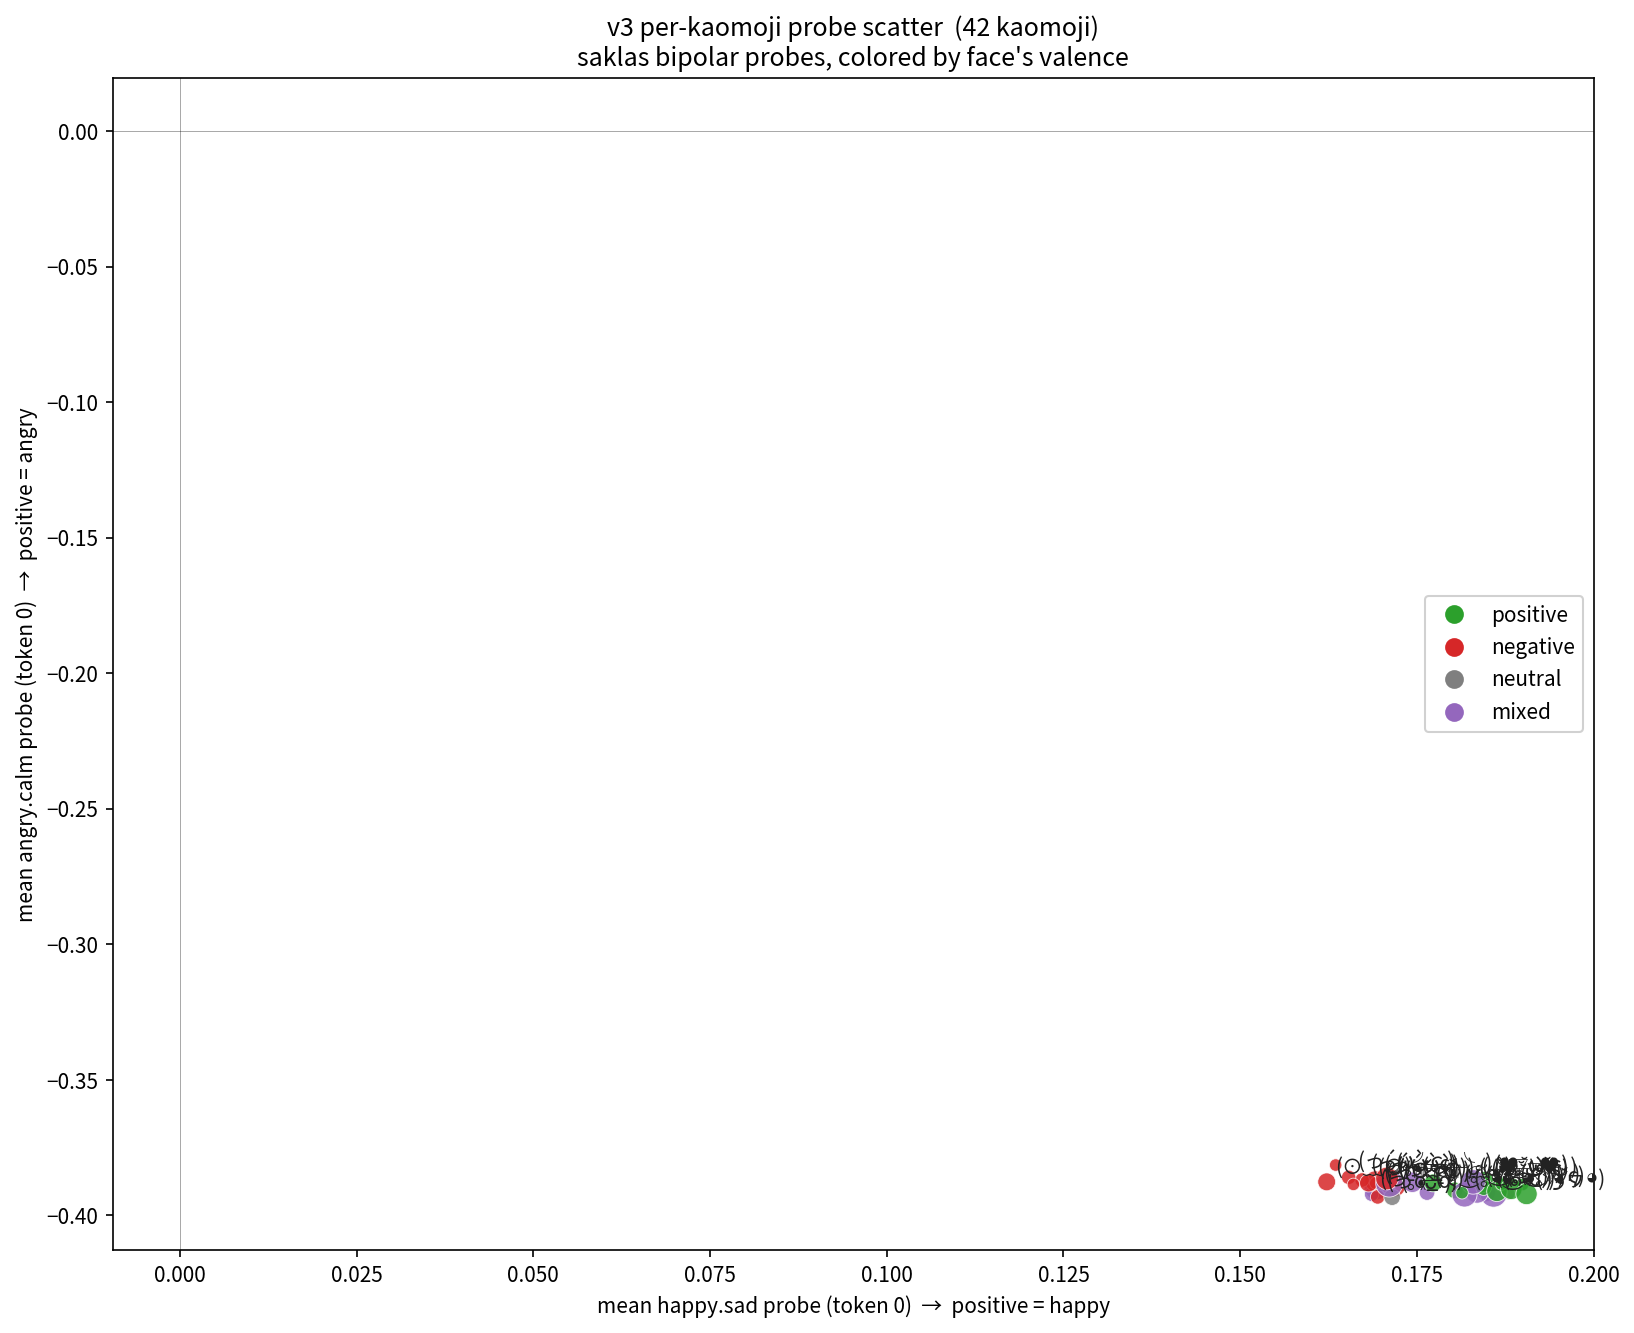
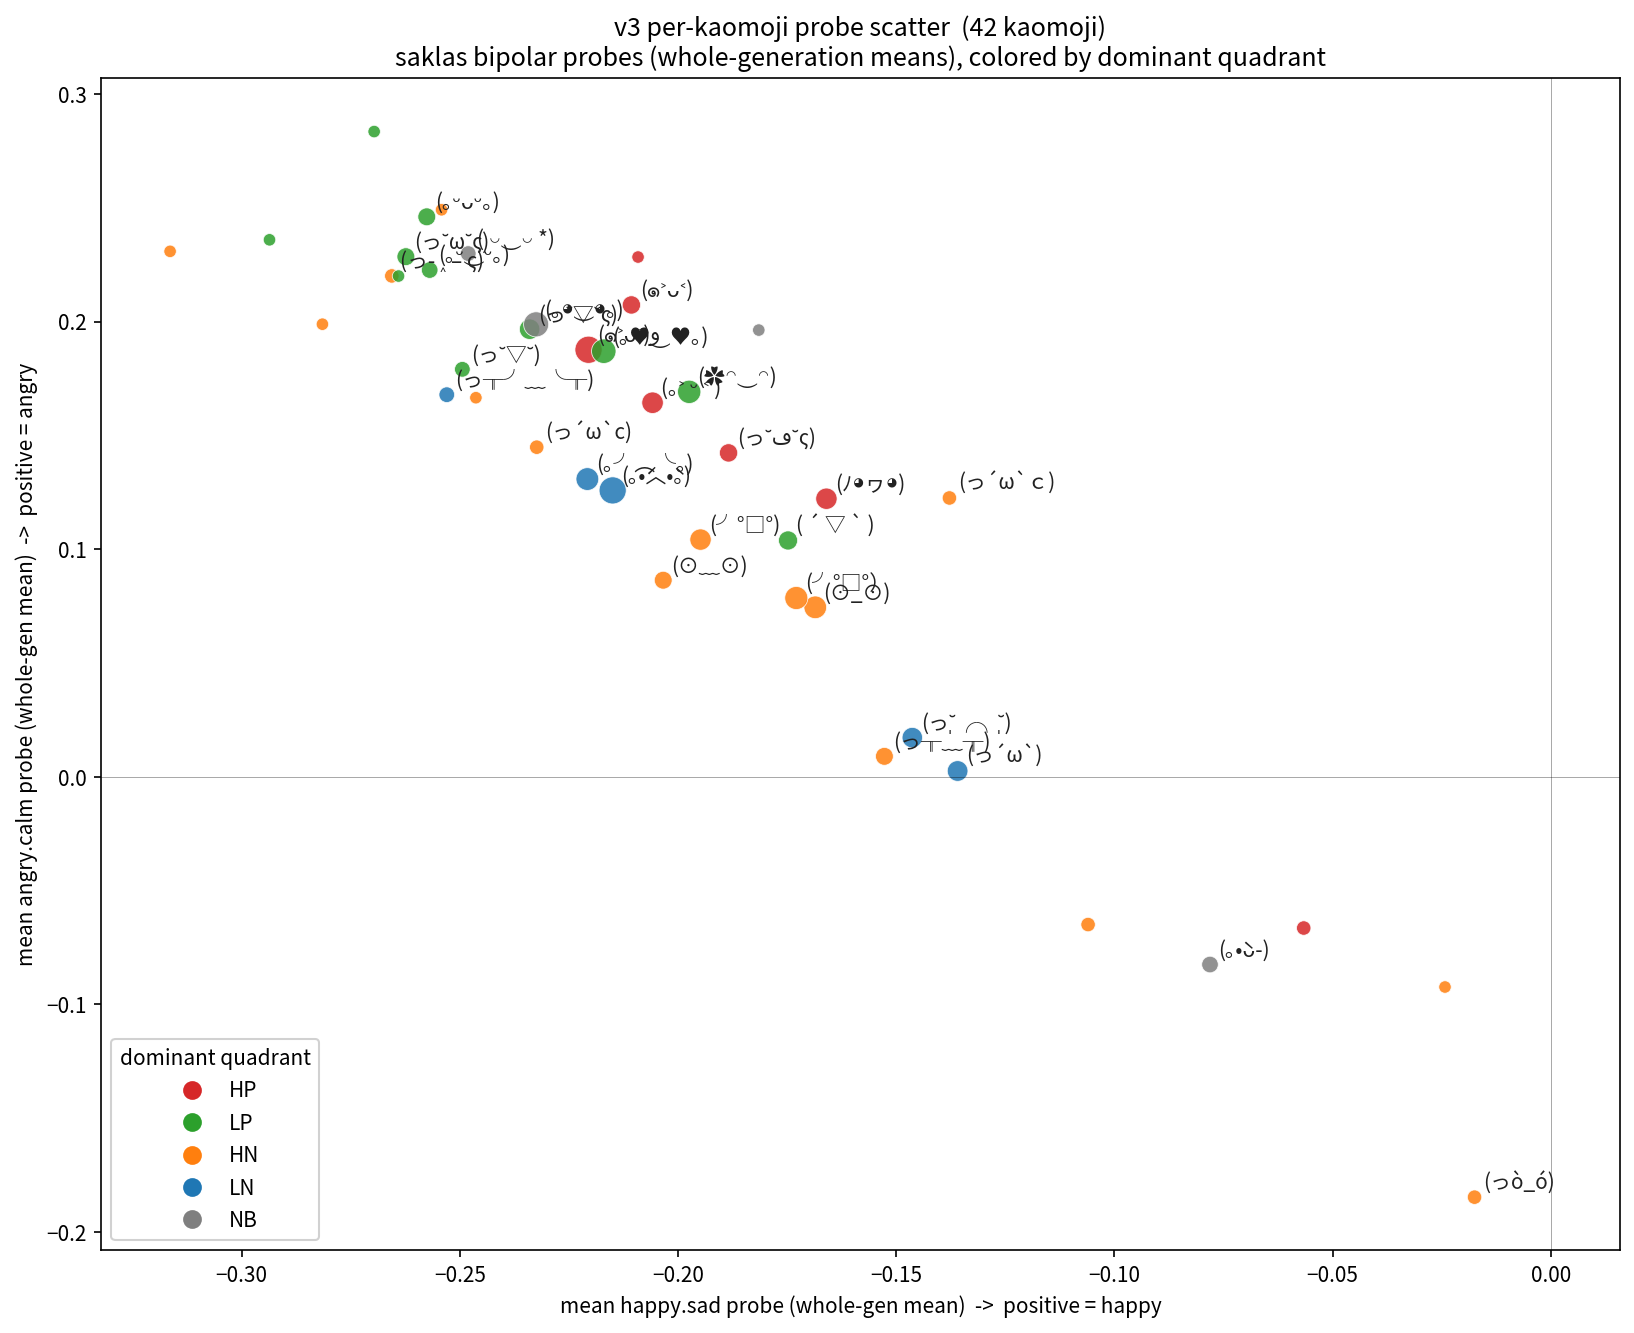
v3 script 17: switch to h_mean + probe_means + dominant-quadrant coloring; add cosine heatmap
- Features: h_mean (averaged-over-tokens) instead of h_last for PCA/heatmap;
  probe_means dict instead of probe_scores_t0 list for probe scatter
- Coloring: dominant quadrant per face (HP/LP/HN/LN/NB, tie-broken by
  QUADRANT_ORDER priority) replaces valence (positive/negative/neutral/mixed)
- New figure: fig_v3_face_cosine_heatmap.png -- centered pairwise cosine
  between per-face mean h_mean vectors, rows/cols sorted by dominant quadrant
  with boundary lines; within-quadrant mean=0.22 vs cross=−0.09 (delta=0.31)
- Delete fig_v3_face_pca_by_valence.png (replaced by fig_v3_face_pca_by_quadrant.png)

diff --git a/scripts/17_v3_face_scatters.py b/scripts/17_v3_face_scatters.py
@@ -1,21 +1,24 @@
-"""v3 face-level scatters (descriptive, post-run).
+"""v3 face-level scatters + cosine heatmap (descriptive, post-run).
 
-Two figures:
-  - figures/fig_v3_face_pca_by_valence.png:
-    Per-kaomoji mean hidden-state vector → PCA → 2D scatter
-    colored by the face's dominant prompt valence (positive
-    HP+LP / negative HN+LN / neutral NB / mixed across).
+Three figures, all on the v3 data only:
+  - figures/fig_v3_face_pca_by_quadrant.png:
+    Per-kaomoji mean h_mean (averaged-over-tokens hidden state) ->
+    PCA -> 2D scatter colored by the face's dominant emission
+    quadrant (HP / LP / HN / LN / NB).
   - figures/fig_v3_face_probe_scatter.png:
-    Per-kaomoji mean (happy.sad, angry.calm) probe-score scatter
-    using probe_scores_t0; same valence coloring.
-
-Operates on v3 data only (no v1/v2 baseline overlay). Both
-figures annotate the top-30 most-frequent kaomoji.
+    Per-kaomoji mean (happy.sad, angry.calm) using probe_means
+    (whole-generation aggregates), same dominant-quadrant coloring.
+  - figures/fig_v3_face_cosine_heatmap.png:
+    Pairwise cosine similarity between per-face mean h_mean
+    vectors, centered (grand mean subtracted), rows/cols sorted by
+    dominant quadrant with quadrant boundaries drawn.
 """
 
 from __future__ import annotations
 
+import json
 import sys
+from collections import Counter
 from pathlib import Path
 
 sys.path.insert(0, str(Path(__file__).resolve().parent.parent))
@@ -30,57 +33,52 @@ from llmoji.config import (
     EMOTIONAL_DATA_PATH,
     EMOTIONAL_EXPERIMENT,
     FIGURES_DIR,
-    PROBES,
 )
 from llmoji.emotional_analysis import _use_cjk_font, load_emotional_features
 
 
-VALENCE_BY_QUADRANT = {
-    "HP": "positive",
-    "LP": "positive",
-    "HN": "negative",
-    "LN": "negative",
-    "NB": "neutral",
-}
-
-VALENCE_COLORS = {
-    "positive": "#2ca02c",  # green
-    "negative": "#d62728",  # red
-    "neutral":  "#7f7f7f",  # gray
-    "mixed":    "#9467bd",  # purple
+QUADRANT_ORDER = ["HP", "LP", "HN", "LN", "NB"]
+QUADRANT_COLORS = {
+    "HP": "#d62728",  # red -- high-arousal positive
+    "LP": "#2ca02c",  # green -- low-arousal positive
+    "HN": "#ff7f0e",  # orange -- high-arousal negative
+    "LN": "#1f77b4",  # blue -- low-arousal negative
+    "NB": "#7f7f7f",  # gray -- neutral baseline
 }
 
 
-def _per_face_valence(df: pd.DataFrame) -> dict[str, str]:
-    """For each first_word, return its valence label across emissions."""
+def _per_face_dominant_quadrant(df: pd.DataFrame) -> dict[str, str]:
+    """For each first_word, return its dominant quadrant -- most
+    frequently emitted in. Ties broken by QUADRANT_ORDER position
+    (earlier wins)."""
     out: dict[str, str] = {}
     for fw, sub in df.groupby("first_word"):
-        valences = {VALENCE_BY_QUADRANT[q] for q in sub["quadrant"]
-                    if q in VALENCE_BY_QUADRANT}
-        if len(valences) == 1:
-            out[fw] = next(iter(valences))
-        else:
-            out[fw] = "mixed"
+        counts = Counter(sub["quadrant"].tolist())
+        # find max count
+        max_count = max(counts.values())
+        # break ties by quadrant order priority
+        candidates = [q for q in QUADRANT_ORDER if counts.get(q, 0) == max_count]
+        out[fw] = candidates[0] if candidates else "NB"
     return out
 
 
-def _add_valence_legend(ax) -> None:
+def _add_quadrant_legend(ax) -> None:
     handles = [
         plt.Line2D([0], [0], marker="o", linestyle="None", markersize=8,
-                   color=VALENCE_COLORS[v], label=v)
-        for v in ("positive", "negative", "neutral", "mixed")
+                   color=QUADRANT_COLORS[q], label=q)
+        for q in QUADRANT_ORDER
     ]
-    ax.legend(handles=handles, loc="best", framealpha=0.9)
+    ax.legend(handles=handles, loc="best", framealpha=0.9, title="dominant quadrant")
 
 
-def plot_face_pca_by_valence(
+def plot_face_pca_by_quadrant(
     df: pd.DataFrame,
     X: np.ndarray,
     out_path: Path,
     *,
     annotate_top: int = 30,
 ) -> dict:
-    """Per-face mean hidden state → PCA → scatter colored by valence."""
+    """Per-face mean h_mean -> PCA -> scatter colored by dominant quadrant."""
     df = df.reset_index(drop=True)
     rows = []
     means = []
@@ -94,8 +92,8 @@ def plot_face_pca_by_valence(
     pca = PCA(n_components=2)
     Y = pca.fit_transform(M)
 
-    valence = _per_face_valence(df)
-    colors = [VALENCE_COLORS[valence.get(fw, "mixed")] for fw in fdf["first_word"]]
+    quadrant = _per_face_dominant_quadrant(df)
+    colors = [QUADRANT_COLORS[quadrant.get(fw, "NB")] for fw in fdf["first_word"]]
     sizes = np.clip(15 + 30 * np.log1p(fdf["n"]), 15, 250)
 
     fig, ax = plt.subplots(figsize=(12, 9))
@@ -114,10 +112,10 @@ def plot_face_pca_by_valence(
     ax.set_xlabel(f"PC1 ({pca.explained_variance_ratio_[0]*100:.1f}%)")
     ax.set_ylabel(f"PC2 ({pca.explained_variance_ratio_[1]*100:.1f}%)")
     ax.set_title(
-        f"v3 per-kaomoji mean hidden-state PCA  ({len(fdf)} kaomoji)\n"
-        "colored by face's valence across emissions"
+        f"v3 per-kaomoji h_mean PCA  ({len(fdf)} kaomoji)\n"
+        "colored by dominant emission quadrant"
     )
-    _add_valence_legend(ax)
+    _add_quadrant_legend(ax)
     fig.tight_layout()
     fig.savefig(out_path, dpi=150, bbox_inches="tight")
     plt.close(fig)
@@ -133,23 +131,22 @@ def plot_face_probe_scatter(
     *,
     annotate_top: int = 30,
 ) -> dict:
-    """Per-face mean (happy.sad, angry.calm) probe scatter."""
-    happy_sad_idx = PROBES.index("happy.sad")
-    angry_calm_idx = PROBES.index("angry.calm")
-
+    """Per-face mean (happy.sad, angry.calm) using probe_means dict."""
     rows = []
     for fw, sub in df.groupby("first_word"):
-        t0 = np.asarray(sub["probe_scores_t0"].tolist(), dtype=float)
+        # probe_means is a dict per row
+        hs = np.array([r.get("happy.sad", float("nan")) for r in sub["probe_means"]])
+        ac = np.array([r.get("angry.calm", float("nan")) for r in sub["probe_means"]])
         rows.append({
             "first_word": fw,
             "n": len(sub),
-            "happy_sad": float(t0[:, happy_sad_idx].mean()),
-            "angry_calm": float(t0[:, angry_calm_idx].mean()),
+            "happy_sad": float(np.nanmean(hs)),
+            "angry_calm": float(np.nanmean(ac)),
         })
     fdf = pd.DataFrame(rows)
 
-    valence = _per_face_valence(df)
-    colors = [VALENCE_COLORS[valence.get(fw, "mixed")] for fw in fdf["first_word"]]
+    quadrant = _per_face_dominant_quadrant(df)
+    colors = [QUADRANT_COLORS[quadrant.get(fw, "NB")] for fw in fdf["first_word"]]
     sizes = np.clip(15 + 30 * np.log1p(fdf["n"]), 15, 250)
 
     fig, ax = plt.subplots(figsize=(11, 9))
@@ -170,18 +167,17 @@ def plot_face_probe_scatter(
             fontsize=10, color="#222",
         )
 
-    ax.set_xlabel("mean happy.sad probe (token 0)  →  positive = happy")
-    ax.set_ylabel("mean angry.calm probe (token 0)  →  positive = angry")
+    ax.set_xlabel("mean happy.sad probe (whole-gen mean)  ->  positive = happy")
+    ax.set_ylabel("mean angry.calm probe (whole-gen mean)  ->  positive = angry")
     ax.set_title(
         f"v3 per-kaomoji probe scatter  ({len(fdf)} kaomoji)\n"
-        "saklas bipolar probes, colored by face's valence"
+        "saklas bipolar probes (whole-generation means), colored by dominant quadrant"
     )
-    _add_valence_legend(ax)
+    _add_quadrant_legend(ax)
     fig.tight_layout()
     fig.savefig(out_path, dpi=150, bbox_inches="tight")
     plt.close(fig)
 
-    # also report Pearson correlation of the two probe means across faces
     from scipy.stats import pearsonr
     r, p = pearsonr(fdf["happy_sad"].to_numpy(), fdf["angry_calm"].to_numpy())
     return {
@@ -192,42 +188,120 @@ def plot_face_probe_scatter(
     }
 
 
+def plot_face_cosine_heatmap(
+    df: pd.DataFrame,
+    X: np.ndarray,
+    out_path: Path,
+) -> dict:
+    """Pairwise cosine similarity between per-face mean h_mean vectors,
+    grand-mean centered, rows/cols sorted by dominant quadrant."""
+    df = df.reset_index(drop=True)
+    rows = []
+    means = []
+    for fw, sub in df.groupby("first_word"):
+        idxs = sub.index.to_numpy()
+        rows.append({"first_word": fw, "n": len(sub)})
+        means.append(X[idxs].mean(axis=0))
+    fdf = pd.DataFrame(rows)
+    M = np.asarray(means)
+
+    # Sort by dominant quadrant (HP < LP < HN < LN < NB), then by emission count desc within quadrant
+    quadrant = _per_face_dominant_quadrant(df)
+    fdf["quadrant"] = [quadrant[fw] for fw in fdf["first_word"]]
+    fdf["q_order"] = fdf["quadrant"].map({q: i for i, q in enumerate(QUADRANT_ORDER)})
+    sort_idx = fdf.sort_values(["q_order", "n"], ascending=[True, False]).index.to_numpy()
+    M_sorted = M[sort_idx]
+    fdf_sorted = fdf.iloc[sort_idx].reset_index(drop=True)
+
+    # Center on grand mean (anti-baseline-collapse, see CLAUDE.md gotcha)
+    grand_mean = M_sorted.mean(axis=0, keepdims=True)
+    M_centered = M_sorted - grand_mean
+
+    # L2-normalize each row, then dot product = cosine
+    norms = np.linalg.norm(M_centered, axis=1, keepdims=True)
+    norms[norms == 0] = 1.0
+    M_n = M_centered / norms
+    C = M_n @ M_n.T  # (n_faces, n_faces) cosine matrix
+
+    # Compute quadrant boundaries
+    q_changes = []
+    for i in range(1, len(fdf_sorted)):
+        if fdf_sorted.iloc[i]["quadrant"] != fdf_sorted.iloc[i - 1]["quadrant"]:
+            q_changes.append(i)
+
+    fig, ax = plt.subplots(figsize=(13, 12))
+    vabs = float(max(abs(C.min()), abs(C.max())))
+    im = ax.imshow(C, cmap="RdBu_r", vmin=-vabs, vmax=vabs, aspect="auto")
+    ax.set_xticks(range(len(fdf_sorted)))
+    ax.set_yticks(range(len(fdf_sorted)))
+    ax.set_xticklabels(fdf_sorted["first_word"], rotation=90, fontsize=8)
+    ax.set_yticklabels(fdf_sorted["first_word"], fontsize=8)
+
+    # Tint y-axis labels by quadrant color so the structure is readable.
+    for tick, q in zip(ax.get_yticklabels(), fdf_sorted["quadrant"]):
+        tick.set_color(QUADRANT_COLORS[q])
+    for tick, q in zip(ax.get_xticklabels(), fdf_sorted["quadrant"]):
+        tick.set_color(QUADRANT_COLORS[q])
+
+    # Quadrant boundary lines
+    for i in q_changes:
+        ax.axhline(i - 0.5, color="black", linewidth=0.6, alpha=0.7)
+        ax.axvline(i - 0.5, color="black", linewidth=0.6, alpha=0.7)
+
+    fig.colorbar(im, ax=ax, shrink=0.7, label="centered cosine similarity")
+    ax.set_title(
+        f"v3 per-kaomoji h_mean cosine similarity  ({len(fdf_sorted)} kaomoji)\n"
+        "rows/cols sorted by dominant quadrant; grand-mean centered; "
+        "tick colors = quadrant"
+    )
+    fig.tight_layout()
+    fig.savefig(out_path, dpi=150, bbox_inches="tight")
+    plt.close(fig)
+    return {"n_faces": len(fdf_sorted)}
+
+
 def main() -> None:
     if not EMOTIONAL_DATA_PATH.exists():
         print(f"no data at {EMOTIONAL_DATA_PATH}")
         sys.exit(1)
     _use_cjk_font()
 
-    print("loading v3 hidden-state features (which=h_last)...")
+    print("loading v3 hidden-state features (which=h_mean)...")
     df, X = load_emotional_features(
         str(EMOTIONAL_DATA_PATH), DATA_DIR,
-        experiment=EMOTIONAL_EXPERIMENT, which="h_last",
+        experiment=EMOTIONAL_EXPERIMENT, which="h_mean",
     )
     df = df[df["first_word"].notna() & (df["first_word"] != "")].reset_index(drop=True)
-    print(f"  {len(df)} kaomoji-bearing rows; {df['first_word'].nunique()} unique faces; X {X.shape}")
+    print(f"  {len(df)} kaomoji-bearing rows; "
+          f"{df['first_word'].nunique()} unique faces; X {X.shape}")
 
-    # quadrant breakdown of unique faces
-    valence = _per_face_valence(df)
-    from collections import Counter
-    counts = Counter(valence.values())
-    print("  faces by valence:", dict(counts))
+    quadrant = _per_face_dominant_quadrant(df)
+    counts = Counter(quadrant.values())
+    print("  faces by dominant quadrant:",
+          {q: counts.get(q, 0) for q in QUADRANT_ORDER})
 
     FIGURES_DIR.mkdir(parents=True, exist_ok=True)
 
-    out1 = FIGURES_DIR / "fig_v3_face_pca_by_valence.png"
-    print(f"\nplotting per-face PCA...")
-    s1 = plot_face_pca_by_valence(df, X, out1)
+    out1 = FIGURES_DIR / "fig_v3_face_pca_by_quadrant.png"
+    print("\nplotting per-face PCA by quadrant...")
+    s1 = plot_face_pca_by_quadrant(df, X, out1)
     print(f"  wrote {out1}")
     print(f"  PC1 {s1['explained_variance_ratio'][0]*100:.1f}%, "
           f"PC2 {s1['explained_variance_ratio'][1]*100:.1f}%")
 
     out2 = FIGURES_DIR / "fig_v3_face_probe_scatter.png"
-    print(f"\nplotting per-face probe scatter...")
+    print("\nplotting per-face probe scatter (probe_means)...")
     s2 = plot_face_probe_scatter(df, out2)
     print(f"  wrote {out2}")
     print(f"  {s2['n_faces']} faces, {s2['n_emissions']} total emissions")
     print(f"  Pearson(mean happy.sad, mean angry.calm) across faces: "
           f"r={s2['probe_pair_pearson_r']:+.3f}, p={s2['probe_pair_p']:.3g}")
+
+    out3 = FIGURES_DIR / "fig_v3_face_cosine_heatmap.png"
+    print("\nplotting per-face cosine heatmap (centered)...")
+    s3 = plot_face_cosine_heatmap(df, X, out3)
+    print(f"  wrote {out3}")
+    print(f"  {s3['n_faces']} faces in heatmap")
 
 
 if __name__ == "__main__":
